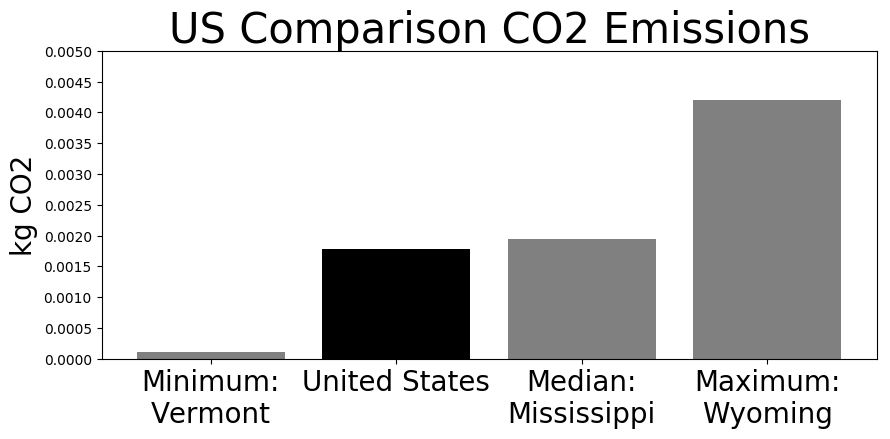
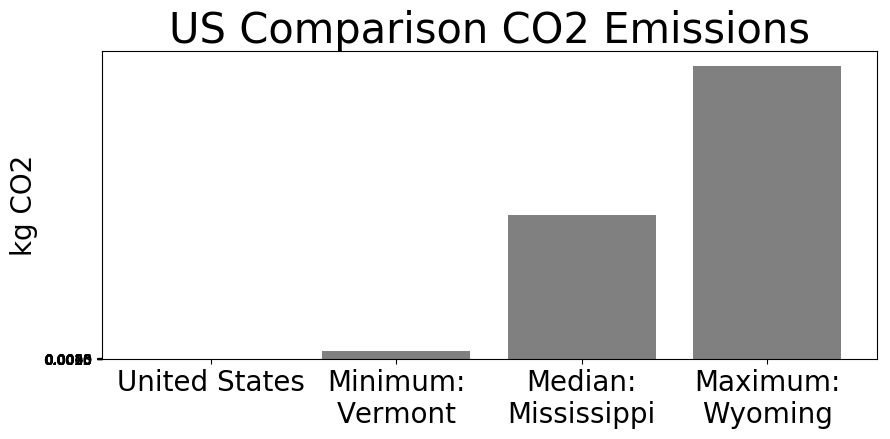
checking png

diff --git a/energyusage/evaluate.py b/energyusage/evaluate.py
@@ -14,7 +14,6 @@ import locate as locate
 import report as report
 import graph
 
-
 DELAY = .1 # in seconds
 
 def func(user_func, q, *args):
@@ -309,12 +308,14 @@ def get_comparison_data(result, locations, year, printToScreen):
 def png_bar_chart(location, emission, default_emissions):
     default_emissions_list = []
     for i in range(0, 9):
-        emission_decimal = (default_emissions[i])[1]
-        rounded_emission = round(emission_decimal, 2)
-        default_emissions_list.append(rounded_emission)
-    global_dict = {"Mongolia" : 4.23e-03, "South Korea" : 3.45e-03, "Bhutan" : 4.81e-04}
-    eu_dict = {"Kosovo" : 4.32e-03, "Ukraine" : 3.02e-03, "Iceland" : 7.77e-04}
-    us_dict = {"Wyoming" : 4.21e-03, "Mississippi" : 1.95e-03, "Vermont" : 1.18e-04}
+        rounded_default_emission = float(format((default_emissions[i])[1], '.3g'))
+        default_emissions_list.append(rounded_default_emission)
+    global_dict = {"Mongolia" : default_emissions_list[0], "South Korea": default_emissions_list[1], "Bhutan" : default_emissions_list[2]}
+    eu_dict = {"Kosovo" : default_emissions_list[3], "Ukraine" : default_emissions_list[4], "Iceland" : default_emissions_list[5]}
+    us_dict = {"Wyoming" : default_emissions_list[6], "Mississippi" : default_emissions_list[7], "Vermont" : default_emissions_list[8]}
+    print(global_dict)
+    print(eu_dict)
+    print(us_dict)
     graph.make_comparison_bar_charts(location, 1.78e-03, us_dict, eu_dict, global_dict)
 
 def evaluate(user_func, *args, pdf=False, png = False, powerLoss=0.8, energyOutput=False, \

diff --git a/energyusage/graph.py b/energyusage/graph.py
@@ -96,3 +96,11 @@ def modify_dict(comparison_dict, location_key, location_value):
     new_key = "Maximum:\n" + sorted_keys[2]
     comparison_dict[new_key] = comparison_dict.pop(sorted_keys[2])
     comparison_dict[location_key] = location_value
+
+us_dict = {"Wyoming" : 4.21e-03, "Mississippi" : 1.95e-03, "Vermont" : 1.18e-04}
+eu_dict = {"Kosovo" : 4.32e-03, "Ukraine" : 3.02e-03, "Iceland" : 7.77e-04}
+global_dict = {"Mongolia" : 4.23e-03, "South Korea" : 3.45e-03, "Bhutan" : 4.81e-04}
+print(us_dict)
+print(eu_dict)
+print(global_dict)
+global_dict = {"Mongolia" : 4.23e-03, "South Korea" : 3.45e-03, "Bhutan" : 4.81e-04}
